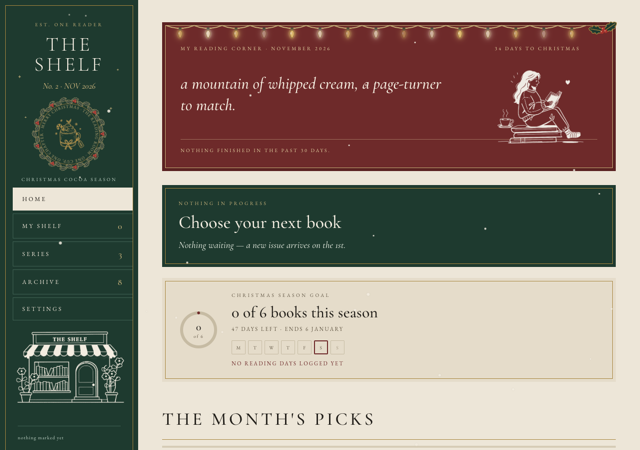
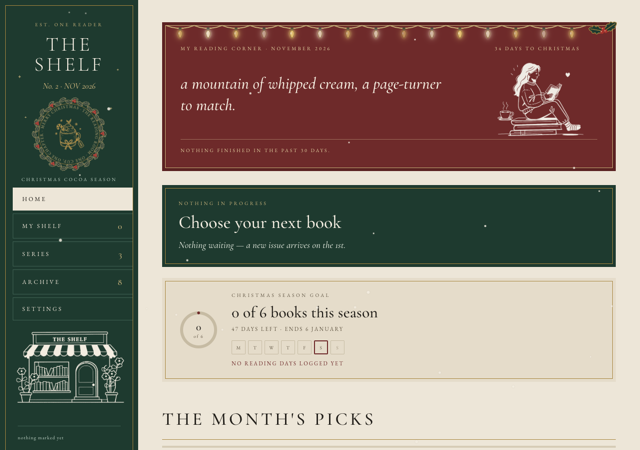
fix(art): move the Home reader up 15 px

Changed region(s): [[0.7812, 0.1244, 0.9062, 0.3422], [0.875, 0.1556, 0.9062, 0.1867]]

diff --git a/pipeline/design/app.html b/pipeline/design/app.html
@@ -51,7 +51,7 @@
   [data-m="shop-art"]{display:block;width:222px;height:auto;object-fit:contain;max-width:100%;min-height:0;margin:8px auto;flex:0 1 auto;translate:3px 2px}
   [data-m="corner-art-row"]{display:flex;align-items:center;gap:16px}
   [data-m="corner-art-row"] [data-m="cornerquote"]{flex:1;min-width:0}
-  [data-m="woman-art"]{display:block;width:181px;height:auto;object-fit:contain;flex:none;translate:2px 31px}
+  [data-m="woman-art"]{display:block;width:181px;height:auto;object-fit:contain;flex:none;translate:2px 16px}
   [data-m="populated-heading"]{display:flex;align-items:center;justify-content:space-between;gap:16px}
   [data-m="populated-heading"] > div{min-width:0}
   [data-m="populated-art"]{display:block;object-fit:contain;flex:none;width:191px;height:auto;translate:-10px 31px}
